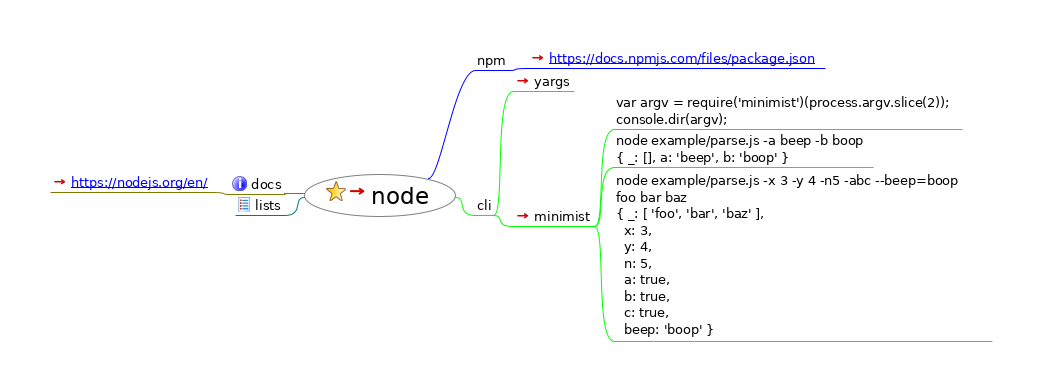
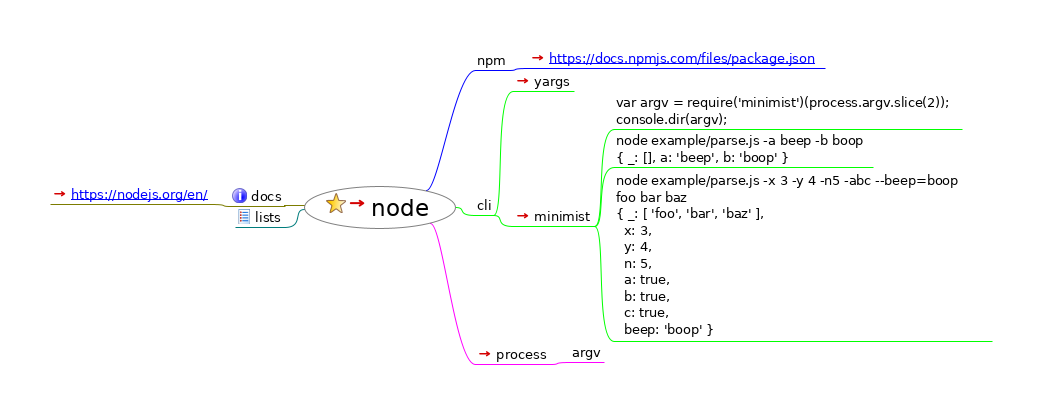
add node process

Changed region(s): [[0.3071, 0.2148, 0.9213, 0.89], [0.4299, 0.1228, 0.7985, 0.2762], [0.0614, 0.4604, 0.3071, 0.5524]]

diff --git a/server/node/index.html b/server/node/index.html
@@ -23,10 +23,10 @@
                    };
                };
           
-          --></script></head><body><h1>node</h1><div style="width:96%;  padding:2%;  margin-bottom:10px;  border: 0px;  text-align:center;  vertical-align:center;"><img src="index.html_files/image.png" style="margin-bottom:10px; &#9;border: 0px; &#9;text-align:center; &#9;vertical-align:center;" alt="Imagemap" usemap="#fm_imagemap" /></div><map name="fm_imagemap" id="fm_imagemap"><area shape="rect" href="../index.html" alt="node" title="node" coords="304,174,456,217" />
-<area shape="rect" href="#FMID_1425964050FM" alt="docs" title="docs" coords="230,176,285,194" />
-<area shape="rect" href="https://nodejs.org/en/" alt="https://nodejs.org/en/" title="https://nodejs.org/en/" coords="50,174,211,192" />
-<area shape="rect" href="#FMID_829378880FM" alt="lists" title="lists" coords="235,197,285,215" />
+          --></script></head><body><h1>node</h1><div style="width:96%;  padding:2%;  margin-bottom:10px;  border: 0px;  text-align:center;  vertical-align:center;"><img src="index.html_files/image.png" style="margin-bottom:10px; &#9;border: 0px; &#9;text-align:center; &#9;vertical-align:center;" alt="Imagemap" usemap="#fm_imagemap" /></div><map name="fm_imagemap" id="fm_imagemap"><area shape="rect" href="../index.html" alt="node" title="node" coords="304,186,456,229" />
+<area shape="rect" href="#FMID_1425964050FM" alt="docs" title="docs" coords="230,188,285,206" />
+<area shape="rect" href="https://nodejs.org/en/" alt="https://nodejs.org/en/" title="https://nodejs.org/en/" coords="50,186,211,204" />
+<area shape="rect" href="#FMID_829378880FM" alt="lists" title="lists" coords="235,209,285,227" />
 <area shape="rect" href="#FMID_943883803FM" alt="npm" title="npm" coords="475,52,509,70" />
 <area shape="rect" href="https://docs.npmjs.com/files/package.json" alt="https://docs.npmjs.com/files/package.jso ..." title="https://docs.npmjs.com/files/package.jso ..." coords="528,50,825,68" />
 <area shape="rect" href="#FMID_254723387FM" alt="cli" title="cli" coords="475,197,494,215" />
@@ -37,11 +37,13 @@
 {  ..." title="node example/parse.js -a beep -b boop
 {  ..." coords="614,132,873,167" />
 <area shape="rect" href="#FMID_143113865FM" alt="node example/parse.js -x 3 -y 4 -n5 -abc ..." title="node example/parse.js -x 3 -y 4 -n5 -abc ..." coords="614,170,992,341" />
+<area shape="rect" href="https://nodejs.org/docs/latest/api/process.html" alt="process" title="process" coords="475,346,551,364" />
+<area shape="rect" href="#FMID_476473429FM" alt="argv" title="argv" coords="570,344,604,362" />
 </map>
 
 <div class="node"><img src="index.html_files/hide.png" class="hideshow" alt="hide" onClick="toggle(&quot;N65543&quot;)" id="imgN65543" /><img src="index.html_files/icons/bookmark.svg" alt="bookmark" /> <a id="FMID_110073400FM" /><div class="nodecontent" style="color:#000000;font-size:150%;"><a href="../index.html">node</a> <a href="../index.html"><img src="index.html_files/ilink.png" alt="User Link" style="border-width:0" /></a></div><div class="content" id="N65543"><div class="node"><img src="index.html_files/hide.png" class="hideshow" alt="hide" onClick="toggle(&quot;N66445&quot;)" id="imgN66445" /><img src="index.html_files/icons/info.svg" alt="info" /> <a id="FMID_1425964050FM" /><div class="nodecontent" style="color:#000000;font-size:83%;">docs</div><div class="content" id="N66445"><div class="node"><img src="index.html_files/leaf.png" class="hideshow" alt="leaf" /><a id="FMID_273339059FM" /><div class="nodecontent" style="color:#000000;font-size:83%;"><a href="https://nodejs.org/en/">
     <a http-equiv="content-type" content="text/html; charset=utf-8" href="https://nodejs.org/en/">https://nodejs.org/en/</a>
   </a> <a href="https://nodejs.org/en/"><img src="index.html_files/ilink.png" alt="User Link" style="border-width:0" /></a></div></div></div></div><div class="node"><img src="index.html_files/leaf.png" class="hideshow" alt="leaf" /><img src="index.html_files/icons/list.svg" alt="list" /> <a id="FMID_829378880FM" /><div class="nodecontent" style="color:#000000;font-size:83%;">lists</div></div><div class="node"><img src="index.html_files/hide.png" class="hideshow" alt="hide" onClick="toggle(&quot;N66584&quot;)" id="imgN66584" /><a id="FMID_943883803FM" /><div class="nodecontent" style="color:#000000;font-size:83%;">npm</div><div class="content" id="N66584"><div class="node"><img src="index.html_files/leaf.png" class="hideshow" alt="leaf" /><a id="FMID_954942221FM" /><div class="nodecontent" style="color:#000000;font-size:83%;"><a href="https://docs.npmjs.com/files/package.json">
     <a http-equiv="content-type" content="text/html; charset=utf-8" href="https://docs.npmjs.com/files/package.json">https://docs.npmjs.com/files/package.json</a>
-  </a> <a href="https://docs.npmjs.com/files/package.json"><img src="index.html_files/ilink.png" alt="User Link" style="border-width:0" /></a></div></div></div></div><div class="node"><img src="index.html_files/hide.png" class="hideshow" alt="hide" onClick="toggle(&quot;N66676&quot;)" id="imgN66676" /><a id="FMID_254723387FM" /><div class="nodecontent" style="color:#000000;font-size:83%;">cli</div><div class="content" id="N66676"><div class="node"><img src="index.html_files/leaf.png" class="hideshow" alt="leaf" /><a id="FMID_947854242FM" /><div class="nodecontent" style="color:#000000;font-size:83%;"><a href="https://www.npmjs.com/package/yargs">yargs</a> <a href="https://www.npmjs.com/package/yargs"><img src="index.html_files/ilink.png" alt="User Link" style="border-width:0" /></a></div></div><div class="node"><img src="index.html_files/hide.png" class="hideshow" alt="hide" onClick="toggle(&quot;N66749&quot;)" id="imgN66749" /><a id="FMID_1959242244FM" /><div class="nodecontent" style="color:#000000;font-size:83%;"><a href="https://www.npmjs.com/package/minimist">minimist</a> <a href="https://www.npmjs.com/package/minimist"><img src="index.html_files/ilink.png" alt="User Link" style="border-width:0" /></a></div><div class="content" id="N66749"><div class="node"><img src="index.html_files/leaf.png" class="hideshow" alt="leaf" /><a id="FMID_1190547862FM" /><div class="nodecontent" style="color:#000000;font-size:83%;">var argv = require('minimist')(process.argv.slice(2));<br />console.dir(argv);</div></div><div class="node"><img src="index.html_files/leaf.png" class="hideshow" alt="leaf" /><a id="FMID_1696017079FM" /><div class="nodecontent" style="color:#000000;font-size:83%;">node example/parse.js -a beep -b boop<br />{ _: [], a: 'beep', b: 'boop' }</div></div><div class="node"><img src="index.html_files/leaf.png" class="hideshow" alt="leaf" /><a id="FMID_143113865FM" /><div class="nodecontent" style="color:#000000;font-size:83%;">node example/parse.js -x 3 -y 4 -n5 -abc --beep=boop foo bar baz<br />{ _: [ 'foo', 'bar', 'baz' ],<br />  x: 3,<br />  y: 4,<br />  n: 5,<br />  a: true,<br />  b: true,<br />  c: true,<br />  beep: 'boop' }</div></div></div></div></div></div></div></div>
+  </a> <a href="https://docs.npmjs.com/files/package.json"><img src="index.html_files/ilink.png" alt="User Link" style="border-width:0" /></a></div></div></div></div><div class="node"><img src="index.html_files/hide.png" class="hideshow" alt="hide" onClick="toggle(&quot;N66676&quot;)" id="imgN66676" /><a id="FMID_254723387FM" /><div class="nodecontent" style="color:#000000;font-size:83%;">cli</div><div class="content" id="N66676"><div class="node"><img src="index.html_files/leaf.png" class="hideshow" alt="leaf" /><a id="FMID_947854242FM" /><div class="nodecontent" style="color:#000000;font-size:83%;"><a href="https://www.npmjs.com/package/yargs">yargs</a> <a href="https://www.npmjs.com/package/yargs"><img src="index.html_files/ilink.png" alt="User Link" style="border-width:0" /></a></div></div><div class="node"><img src="index.html_files/hide.png" class="hideshow" alt="hide" onClick="toggle(&quot;N66749&quot;)" id="imgN66749" /><a id="FMID_1959242244FM" /><div class="nodecontent" style="color:#000000;font-size:83%;"><a href="https://www.npmjs.com/package/minimist">minimist</a> <a href="https://www.npmjs.com/package/minimist"><img src="index.html_files/ilink.png" alt="User Link" style="border-width:0" /></a></div><div class="content" id="N66749"><div class="node"><img src="index.html_files/leaf.png" class="hideshow" alt="leaf" /><a id="FMID_1190547862FM" /><div class="nodecontent" style="color:#000000;font-size:83%;">var argv = require('minimist')(process.argv.slice(2));<br />console.dir(argv);</div></div><div class="node"><img src="index.html_files/leaf.png" class="hideshow" alt="leaf" /><a id="FMID_1696017079FM" /><div class="nodecontent" style="color:#000000;font-size:83%;">node example/parse.js -a beep -b boop<br />{ _: [], a: 'beep', b: 'boop' }</div></div><div class="node"><img src="index.html_files/leaf.png" class="hideshow" alt="leaf" /><a id="FMID_143113865FM" /><div class="nodecontent" style="color:#000000;font-size:83%;">node example/parse.js -x 3 -y 4 -n5 -abc --beep=boop foo bar baz<br />{ _: [ 'foo', 'bar', 'baz' ],<br />  x: 3,<br />  y: 4,<br />  n: 5,<br />  a: true,<br />  b: true,<br />  c: true,<br />  beep: 'boop' }</div></div></div></div></div></div><div class="node"><img src="index.html_files/hide.png" class="hideshow" alt="hide" onClick="toggle(&quot;N66895&quot;)" id="imgN66895" /><a id="FMID_796850607FM" /><div class="nodecontent" style="color:#000000;font-size:83%;"><a href="https://nodejs.org/docs/latest/api/process.html">process</a> <a href="https://nodejs.org/docs/latest/api/process.html"><img src="index.html_files/ilink.png" alt="User Link" style="border-width:0" /></a></div><div class="content" id="N66895"><div class="node"><img src="index.html_files/leaf.png" class="hideshow" alt="leaf" /><a id="FMID_476473429FM" /><div class="nodecontent" style="color:#000000;font-size:83%;">argv</div></div></div></div></div></div>
 </body></html>

diff --git a/server/node/index.mm b/server/node/index.mm
@@ -64,7 +64,7 @@
 </stylenode>
 </map_styles>
 </hook>
-<hook NAME="AutomaticEdgeColor" COUNTER="14" RULE="ON_BRANCH_CREATION"/>
+<hook NAME="AutomaticEdgeColor" COUNTER="15" RULE="ON_BRANCH_CREATION"/>
 <node TEXT="docs" POSITION="left" ID="ID_1425964050" CREATED="1572497990298" MODIFIED="1572498279093">
 <icon BUILTIN="info"/>
 <edge COLOR="#7c7c00"/>
@@ -108,6 +108,10 @@
 <node TEXT="node example/parse.js -a beep -b boop&#xa;{ _: [], a: &apos;beep&apos;, b: &apos;boop&apos; }" ID="ID_1696017079" CREATED="1574676282246" MODIFIED="1574676283779"/>
 <node TEXT="node example/parse.js -x 3 -y 4 -n5 -abc --beep=boop foo bar baz&#xa;{ _: [ &apos;foo&apos;, &apos;bar&apos;, &apos;baz&apos; ],&#xa;  x: 3,&#xa;  y: 4,&#xa;  n: 5,&#xa;  a: true,&#xa;  b: true,&#xa;  c: true,&#xa;  beep: &apos;boop&apos; }" ID="ID_143113865" CREATED="1574676290102" MODIFIED="1574676291542"/>
 </node>
+</node>
+<node TEXT="process" POSITION="right" ID="ID_796850607" CREATED="1574676985952" MODIFIED="1574676990158" LINK="https://nodejs.org/docs/latest/api/process.html">
+<edge COLOR="#ff00ff"/>
+<node TEXT="argv" ID="ID_476473429" CREATED="1574676993097" MODIFIED="1574676995257"/>
 </node>
 </node>
 </map>
